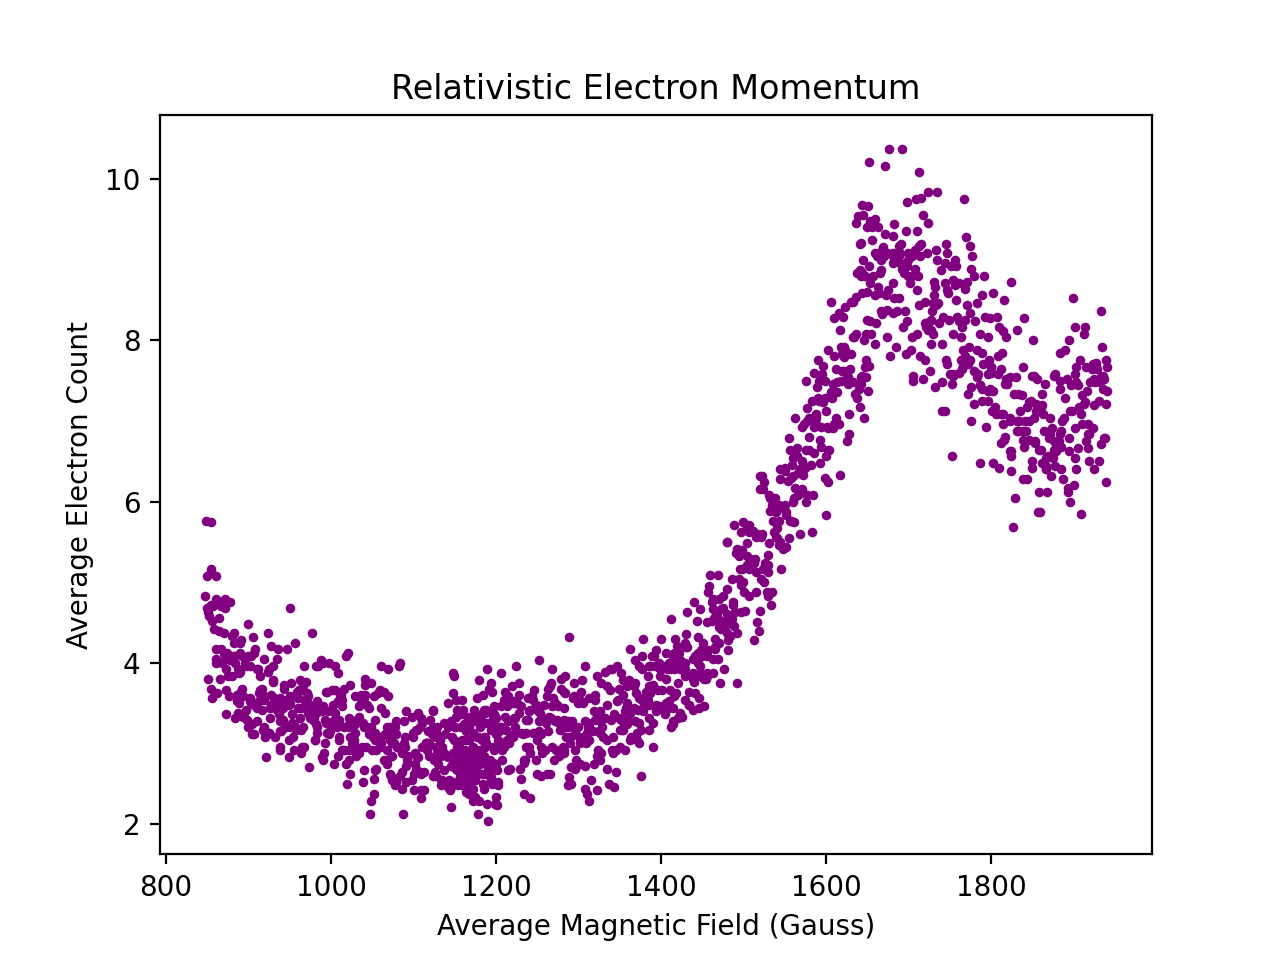
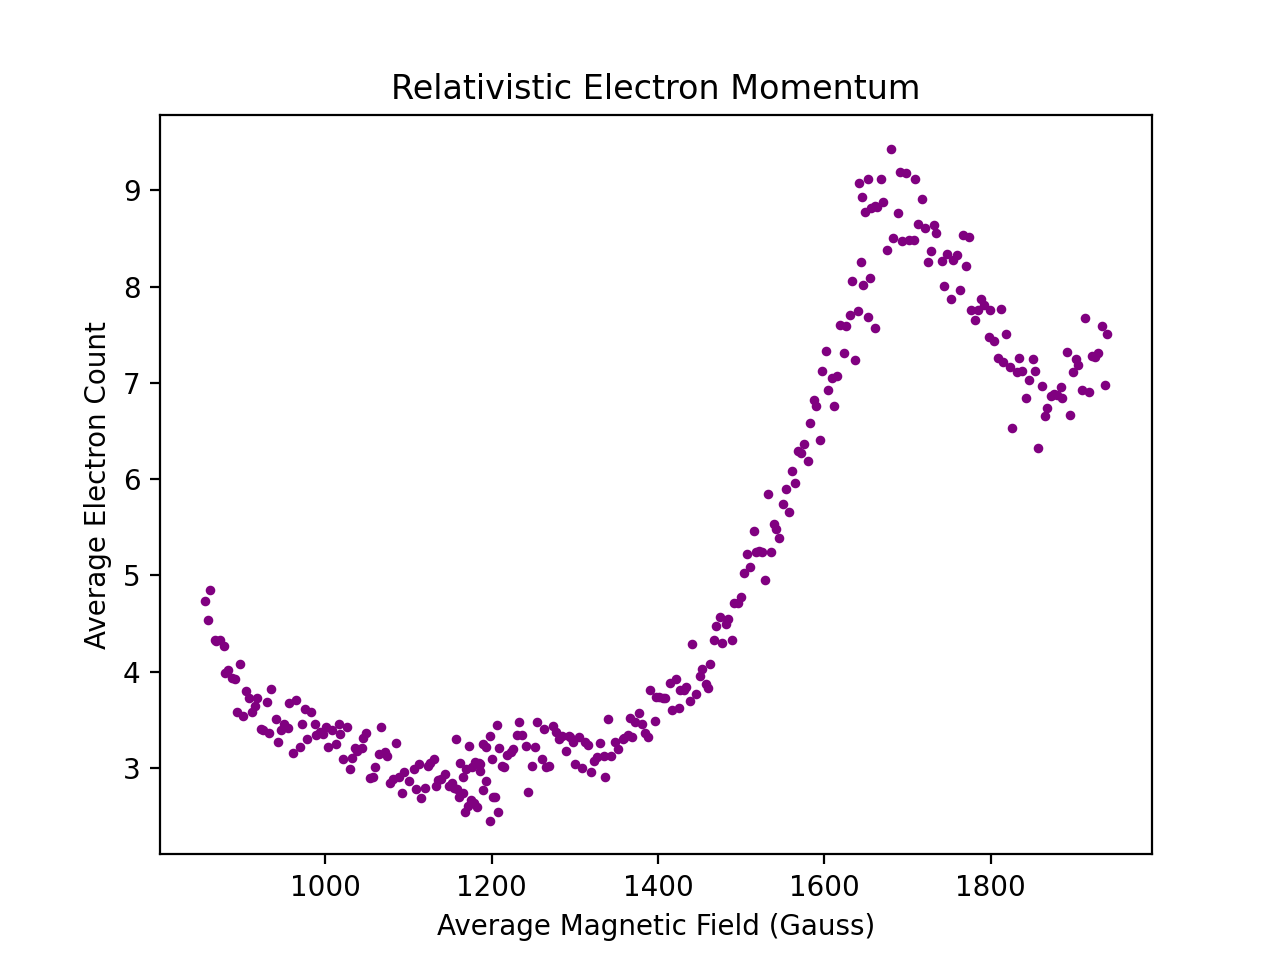
updated values

diff --git a/AEL/REM/REM_Data.py b/AEL/REM/REM_Data.py
@@ -7,14 +7,14 @@ downloads_dir = os.path.expanduser('~/Downloads')
 
 
 #-------- data averaging function ----------------------------#
-def data_averaging(data, knob_pos, upper_B, lower_B, B_offset):
-    #compute B-field from Gaussmeter reading:
+def data_averaging(data, knob_pos, lower_B, upper_B, B_offset):
+    #compute B-field from Arduino analog output:
     dial_rate = (upper_B - lower_B) / knob_pos
     data[:, 4] = data[:, 1] + B_offset + dial_rate * data[:, 0]
     #group data by knob position (column 0) and average the other columns:
     #(for some reason, # data pts per knob pos inconsistent)
     col0 = data[:, 0]
-    change = np.concatenate(([True], col0[1:] != col0[:-1])) #boolean array where knobob position changes
+    change = np.concatenate(([True], col0[1:] != col0[:-1])) #boolean array where knob position changes
     bounds = np.flatnonzero(change) #indexing where knobob position changes
 
     #averaging data in each group:
@@ -27,8 +27,15 @@ def data_averaging(data, knob_pos, upper_B, lower_B, B_offset):
         out.append(np.mean(rows, axis=0))
         w_list.append(1/np.std(rows[:, 4], ddof=1)**2) #weight for std error of B-field
     
-    data_avg = np.vstack(out) #stacking all averaged rows into array
+    #stacking lists into arrays:
+    data_array = np.vstack(out)
     w_array = np.array(w_list)
+   
+    #averaging over 5 B-field values at a time:
+    chunk_size = 5
+    chunks = np.array_split(data_array, range(chunk_size, data_array.shape[0], chunk_size), axis=0)
+    data_avg = np.vstack([c.mean(axis=0) for c in chunks])
+    
     return data_avg, w_array
 
 
@@ -51,9 +58,9 @@ data3 = pd.read_excel("Bi1568.xlsx", sheet_name=0, header=0).to_numpy()
 #--------- averaging data sets & generating std error of B-Field ---------#
 #inserting data runs from 848 Gauss to ???? Gauss
 avg_data = ([
-     data_averaging(data1, 500, 1146, 848, 668),
-     data_averaging(data2, 700, 1568, 1146, 908), 
-     data_averaging(data3, 400, 1822, 1568, 1320)
+     data_averaging(data1, 500, 848, 1146, 674),
+     data_averaging(data2, 700, 1146, 1568, 919),
+     data_averaging(data3, 400, 1568, 1822, 1320) 
 ])
 
 #extracting averaged B-field and pulse counts:
@@ -81,5 +88,5 @@ plt.xlabel("Average Magnetic Field (Gauss)")
 plt.ylabel("Average Electron Count")
 plt.scatter(B_field, pulses, s=6, marker='o', color='purple')
 plt.savefig("REM.png", dpi=200)
-plt.savefig(os.path.join(downloads_dir, "REM.png"), dpi=200, bbox_inches="tight")
+#plt.savefig(os.path.join(downloads_dir, "REM.png"), dpi=200, bbox_inches="tight")
 

diff --git a/AEL/REM/Stopping_Power.py b/AEL/REM/Stopping_Power.py
@@ -6,9 +6,9 @@ downloads_dir = os.path.expanduser('~/Downloads')
 
 #---------- constants ----------#
 E_r = 0.511 #m_0*c^2 [MeV]
-I = 86E-6 #[MeV]
-C = 9.234e-05 #0.5*rho*K*Z/A [MeV/cm]
-E_max = 1.44 #[MeV] initial energy of electron
+I = 8.57E-5 #[MeV]
+C = 9.24E-5 #0.5*rho*K*Z/A [MeV/cm]
+E_max = 1.48 #[MeV] initial energy of electron
 s_avg = np.pi*2.5 #[cm] average arc length to detector
 s_max = 50 #[cm] arbitrary large distance for energy loss plotting
 
@@ -54,7 +54,7 @@ plt.xlabel("Energy [MeV]")
 plt.ylabel("Linear Stopping Power [MeV/cm]")
 plt.title("Relativistic Stopping Power")
 plt.savefig("Stopping_Power.png", dpi=200, bbox_inches="tight")
-plt.savefig(os.path.join(downloads_dir, "Stopping_Power.png"), dpi=200, bbox_inches="tight")
+#plt.savefig(os.path.join(downloads_dir, "Stopping_Power.png"), dpi=200, bbox_inches="tight")
 
 #---------- plotting E as a func of distance traveled -----------#
 plt.figure()
@@ -63,7 +63,7 @@ plt.ylabel("Total Relativistic Energy [MeV]")
 plt.xlabel(" Distance [cm]")
 plt.title("Relativistic Electron Energy Loss")
 plt.savefig("Rel_Energy_Loss")
-plt.savefig(os.path.join(downloads_dir, "Rel_Energy_Loss.png"), dpi=200, bbox_inches="tight")
+#plt.savefig(os.path.join(downloads_dir, "Rel_Energy_Loss.png"), dpi=200, bbox_inches="tight")
 
 #---------- finds E_det from trajectory arc length s ----------#
 #given E_loss plot x axis (distance s), and target distance s, find index of closest distance in s_range
